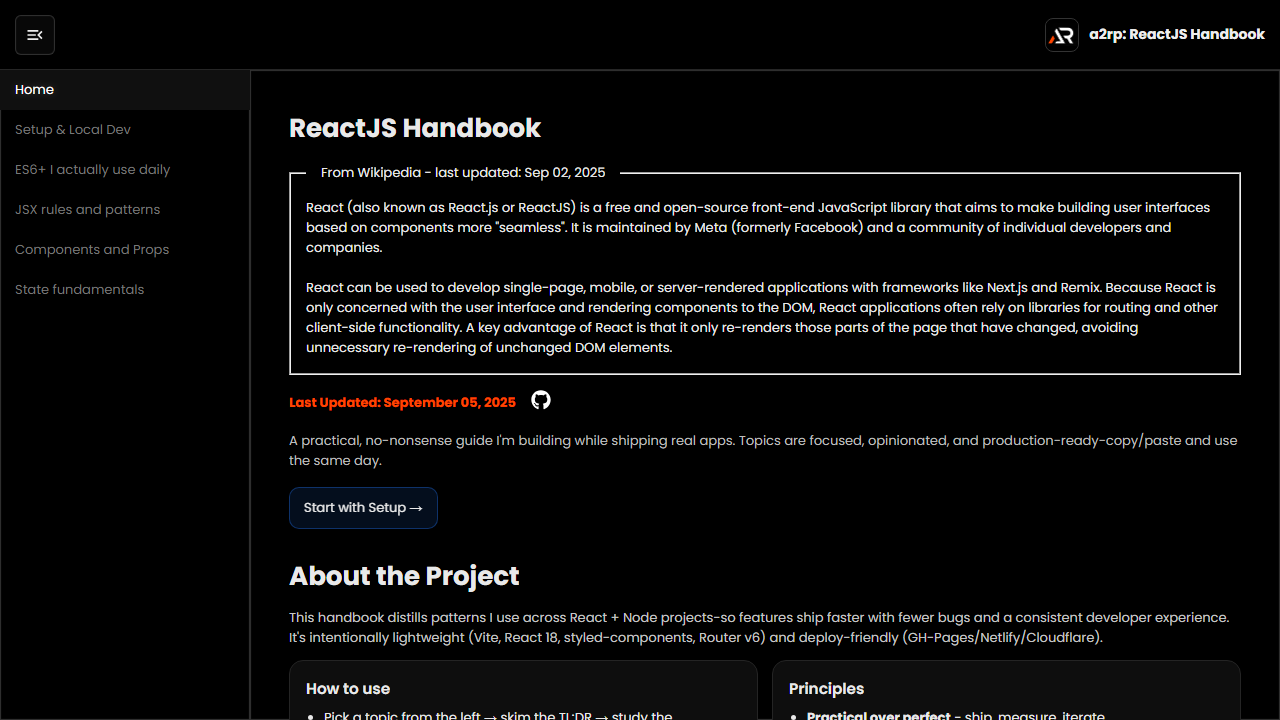
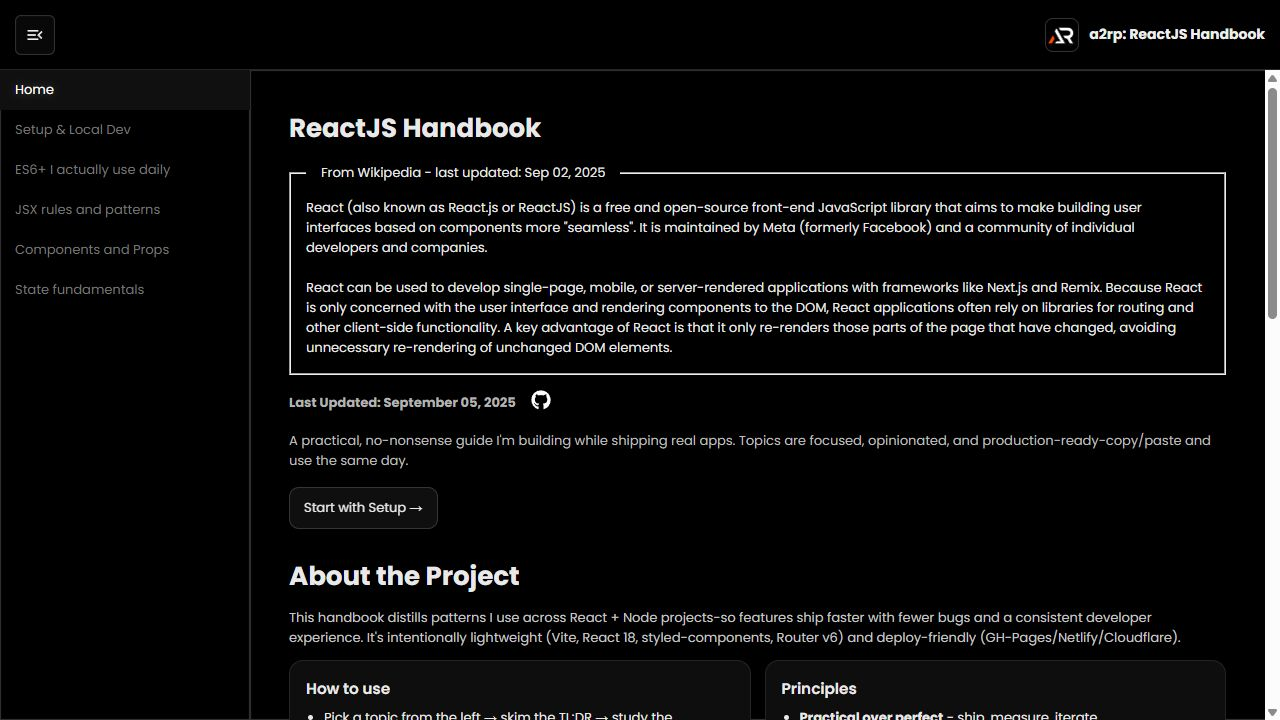
Make React handbook monochrome and refresh preview

diff --git a/src/pages/topics/styled.js b/src/pages/topics/styled.js
@@ -1,18 +1,18 @@
 import styled, { keyframes } from "styled-components";
 
 const pulse = keyframes`
-  from { box-shadow: 0 0 0 0 rgba(99,102,241,0.3); }
-  to   { box-shadow: 0 0 0 8px rgba(99,102,241,0.0); }
+  from { box-shadow: 0 0 0 0 rgba(119, 119, 119, 0.3); }
+  to   { box-shadow: 0 0 0 8px rgba(119, 119, 119, 0.0); }
 `;
 
 export const Styled = {
     Topic: styled.section`
-        --card: #121622;
-        --muted: #9aa3b2;
-        --accent: #6366f1;
-        --expose: #0f0;
+        --card: #161616;
+        --muted: #a2a2a2;
+        --accent: #777777;
+        --expose: #ddd;
         background: var(--card);
-        border: 1px solid #1c2333;
+        border: 1px solid #232323;
         border-radius: 14px;
         margin: 10px 0 16px;
         overflow: hidden;
@@ -31,12 +31,12 @@ export const Styled = {
         letter-spacing: 0.2px;
         background: linear-gradient(
             180deg,
-            rgba(99, 102, 241, 0.08),
+            rgba(119, 119, 119, 0.08),
             transparent
         );
-        border-bottom: 1px solid #1a2130;
+        border-bottom: 1px solid #212121;
         &:hover {
-            background: rgba(99, 102, 241, 0.1);
+            background: rgba(119, 119, 119, 0.1);
         }
         &:focus-visible {
             outline: 2px solid var(--accent);
@@ -75,11 +75,11 @@ export const Styled = {
         h3 {
             /* margin: 15px 0 8px; */
             font-size: 16px;
-            color: #c7d2fe;
+            color: #d3d3d3;
         }
         p,
         li {
-            color: #e5e7eb;
+            color: #e7e7e7;
         }
         p {
             margin-bottom: 30px;
@@ -89,15 +89,15 @@ export const Styled = {
             margin: 8px 0 14px 18px;
         }
         em {
-            color: #cbd5e1;
+            color: #d4d4d4;
         }
     `,
 
     Code: styled.pre`
         margin: 10px 0 16px;
         padding: 15px 16px;
-        background: #0b0f19;
-        border: 1px solid #1c2333;
+        background: #0f0f0f;
+        border: 1px solid #232323;
         border-radius: 12px;
         overflow: auto;
         font-family: ui-monospace, SFMono-Regular, Menlo, Monaco, Consolas,
@@ -114,10 +114,10 @@ export const Styled = {
             font-size: 11px;
             /* color: var(--muted); */
             color: var(--expose);
-            background: #0d0f14;
+            background: #0f0f0f;
             padding: 2px 6px;
             border-radius: 6px;
-            border: 1px solid #1c2333;
+            border: 1px solid #232323;
             animation: ${pulse} 2s ease-out 1;
         }
     `,
@@ -125,14 +125,14 @@ export const Styled = {
     Kbd: styled.code`
         padding: 1px 6px;
         border-radius: 6px;
-        background: #0b0f19;
-        border: 1px solid #1c2333;
+        background: #0f0f0f;
+        border: 1px solid #232323;
         font-size: 0.9em;
     `,
 
     Divider: styled.hr`
         border: none;
-        border-top: 1px dashed #263049;
+        border-top: 1px dashed #303030;
         margin: 16px 0;
     `,
 };

diff --git a/src/components/footer/styled.js b/src/components/footer/styled.js
@@ -23,10 +23,10 @@ export const Styled = {
         h4 { margin: 0 0 8px; font-size: 18px; letter-spacing: .3px; }
         h5 { margin: 0 0 8px; font-size: 14px; color: #bdbdbd; font-weight: 600; letter-spacing: .2px; text-transform: uppercase; }
         p { margin: 0 0 10px; color: #bfbfbf; line-height: 1.55; }
-        .builtwith { color: #a9c6ff; }
+        .builtwith { color: #c5c5c5; }
         .iconLinks { display: flex; flex-wrap: wrap; gap: 8px; margin-top: 10px; }
-        .iconLinks a, .topButton { width: 34px; height: 34px; display: inline-flex; align-items: center; justify-content: center; border: 1px solid #2a2a2a; border-radius: 8px; background: #151515; color: #cfe0ff; text-decoration: none; cursor: pointer; transition: background 180ms ease, border-color 180ms ease, box-shadow 180ms ease, color 180ms ease; }
-        .iconLinks a:hover, .iconLinks a:focus-visible, .topButton:hover, .topButton:focus-visible { background: #1d1d1d; border-color: #6c8fca; color: #fff; box-shadow: 0 0 16px rgba(108,143,202,.25); outline: none; }
+        .iconLinks a, .topButton { width: 34px; height: 34px; display: inline-flex; align-items: center; justify-content: center; border: 1px solid #2a2a2a; border-radius: 8px; background: #151515; color: #dfdfdf; text-decoration: none; cursor: pointer; transition: background 180ms ease, border-color 180ms ease, box-shadow 180ms ease, color 180ms ease; }
+        .iconLinks a:hover, .iconLinks a:focus-visible, .topButton:hover, .topButton:focus-visible { background: #1d1d1d; border-color: #8e8e8e; color: #fff; box-shadow: 0 0 16px rgba(142, 142, 142, .25); outline: none; }
         .topButton { margin-top: 12px; }
     `,
     Bar: styled.div`

diff --git a/src/pages/topics/jsxRulesAndPatterns/InlineStyles.jsx b/src/pages/topics/jsxRulesAndPatterns/InlineStyles.jsx
@@ -76,8 +76,8 @@ function Content() {
             <h3>D) Conditional & merged styles</h3>
             <p>Inline styles are just objects-combine with spreads and conditionals.</p>
             <Styled.Code>{`const base = { padding: 12, borderRadius: 8 };
-const primary = { backgroundColor: "#0af", color: "#fff" };
-const danger  = { backgroundColor: "#e11", color: "#fff" };
+const primary = { backgroundColor: "#aaa", color: "#fff" };
+const danger  = { backgroundColor: "#777", color: "#fff" };
 
 function Button({ kind = "primary", active }) {
   const tone = kind === "danger" ? danger : primary;
@@ -107,7 +107,7 @@ function Button({ kind = "primary", active }) {
         style={{
           width: pct + "%",              // string for %
           height: "100%",
-          background: "var(--accent,#0af)",
+          background: "var(--accent,#aaa)",
           borderRadius: 4
         }}
         aria-valuenow={pct}

diff --git a/src/pages/home/styled.js b/src/pages/home/styled.js
@@ -45,8 +45,8 @@ export const Styled = {
             will-change: transform;
         }
         .btn.primary {
-            background: #1f6feb20;
-            border-color: #1f6feb60;
+            background: #75757520;
+            border-color: #75757560;
         }
         .btn.ghost:hover {
             background: #2a2a2a;
@@ -133,9 +133,9 @@ export const Styled = {
         margin-top: 30px;
 
         a {
-            color: #b8d1ff;
+            color: #d0d0d0;
             text-decoration: none;
-            border-bottom: 1px dashed #2c4370;
+            border-bottom: 1px dashed #444444;
             padding-bottom: 2px;
         }
         a:hover {

diff --git a/src/pages/home/index.jsx b/src/pages/home/index.jsx
@@ -22,7 +22,7 @@ export default function Home() {
 
 
             {/* HERO */}
-            <b style={{ color: "orangered", display: "flex", alignItems: "center", gap: 15 }}>
+            <b style={{ color: "#b3b3b3", display: "flex", alignItems: "center", gap: 15 }}>
                 Last Updated: September 05, 2025 <a href="https://github.com/a2rp/reactjs-handbook" target="_blank" style={{ color: "#fff", textDecoration: "none" }}><FaGithub size={20} /></a>
             </b>
             <Styled.Hero>

diff --git a/src/pages/topics/setupAndLocalDev/index.jsx b/src/pages/topics/setupAndLocalDev/index.jsx
@@ -49,8 +49,8 @@ const Styled = {
         line-height: 1.65;
 
         p { margin: 0 0 8px; }
-        .outcome { color: #bfcfff; }
-        strong { color: #e2e8ff; font-weight: 600; }
+        .outcome { color: #cfcfcf; }
+        strong { color: #e8e8e8; font-weight: 600; }
     `,
 
 };
